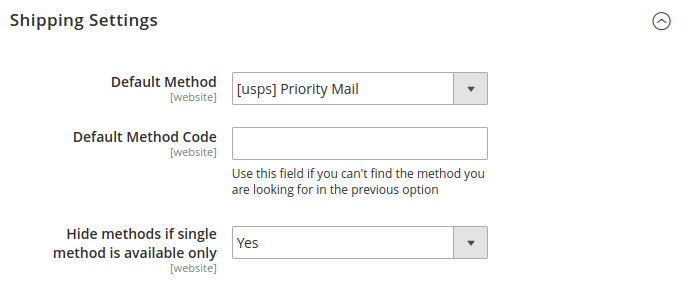
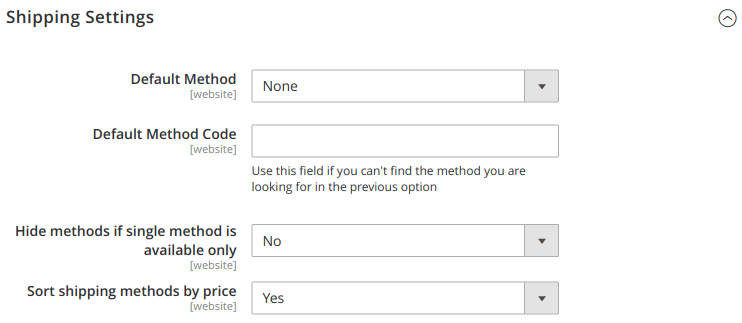
Firecheckout 1.27.0

diff --git a/m2/extensions/firecheckout/configuration.md b/m2/extensions/firecheckout/configuration.md
@@ -151,6 +151,7 @@ Option                  | Description
 Default Method          | Default shipping method to use
 Default Method Code     | Same setting as above. Use this field if you can't find the method you are looking for in the previous option
 Hide methods if single method is available only | Useful if you use single method for all customers
+Sort shipping methods by price | Allows to sort shipping methods by their price. From lower to higher.
 
 ### Payment settings section
 
@@ -193,34 +194,7 @@ CSS     | CSS styles. LESS is not supported.
 LESS    | CSS styles with LESS syntax support.
 JS      | JS code
 
-> **Attention!**
->
-> Unlike js code inserted into custom.js file (begins with "define" function),
-> code inserted in JS section begins with "require" function.
-
-JS code example:
-
-```js
-require([
-    'Magento_Ui/js/lib/view/utils/async'
-], function($) {
-    'use strict';
-
-    var expandables = [
-        '.discount-code',
-        '.order-attachments'
-    ];
-
-    $.async({
-        selector: expandables.join(','),
-        ctx: $('.checkout-container').get(0)
-    }, function (el) {
-        setTimeout(function() {
-            $(el).collapsible('activate');
-        }, 500);
-    });
-});
-```
+View JS code examples at [Checkout Customizations](/m2/extensions/firecheckout/customization/) pages.
 
 ### Performance settings section
 

diff --git a/m2/extensions/firecheckout/changelog.md b/m2/extensions/firecheckout/changelog.md
@@ -8,6 +8,15 @@ category: Firecheckout
 
 # Changelog
 
+### Version 1.27.0
+
+> Jul 21, 2021
+
+ -  Added new config option that allows to
+    [sort shipping methods by their price](/m2/extensions/firecheckout/configuration/#shiping-settings-section)
+ -  [Custom js config option](/m2/extensions/firecheckout/configuration/#custom-css-and-js-settings-section)
+    now allows to enter js code that begins with `define` or `require` statement.
+
 ### Version 1.26.5
 
 > Jul 19, 2021

diff --git a/m2/extensions/firecheckout/customization/custom-js.md b/m2/extensions/firecheckout/customization/custom-js.md
@@ -23,9 +23,6 @@ core files modification.
 >
 > Since version 1.12.0 you can add JS directly into
 > [backend config settings](/m2/extensions/firecheckout/configuration/#custom-css-and-js-settings-section).
->
-> Please note, that JS syntax in config section is slightly differs from syntax
-> in custom.js file (`require` should be used instead of `define`).
 
 ### Example
 
